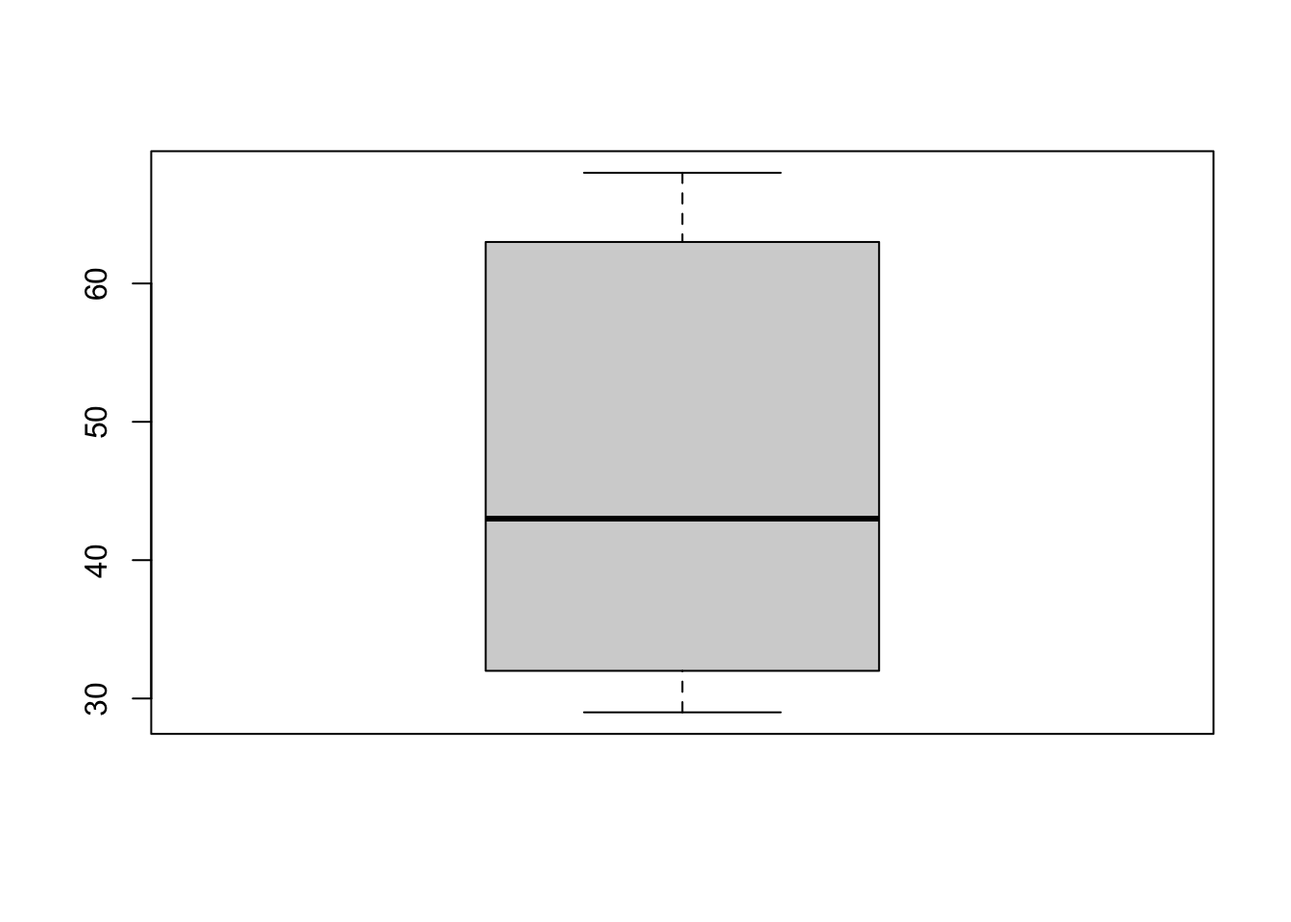
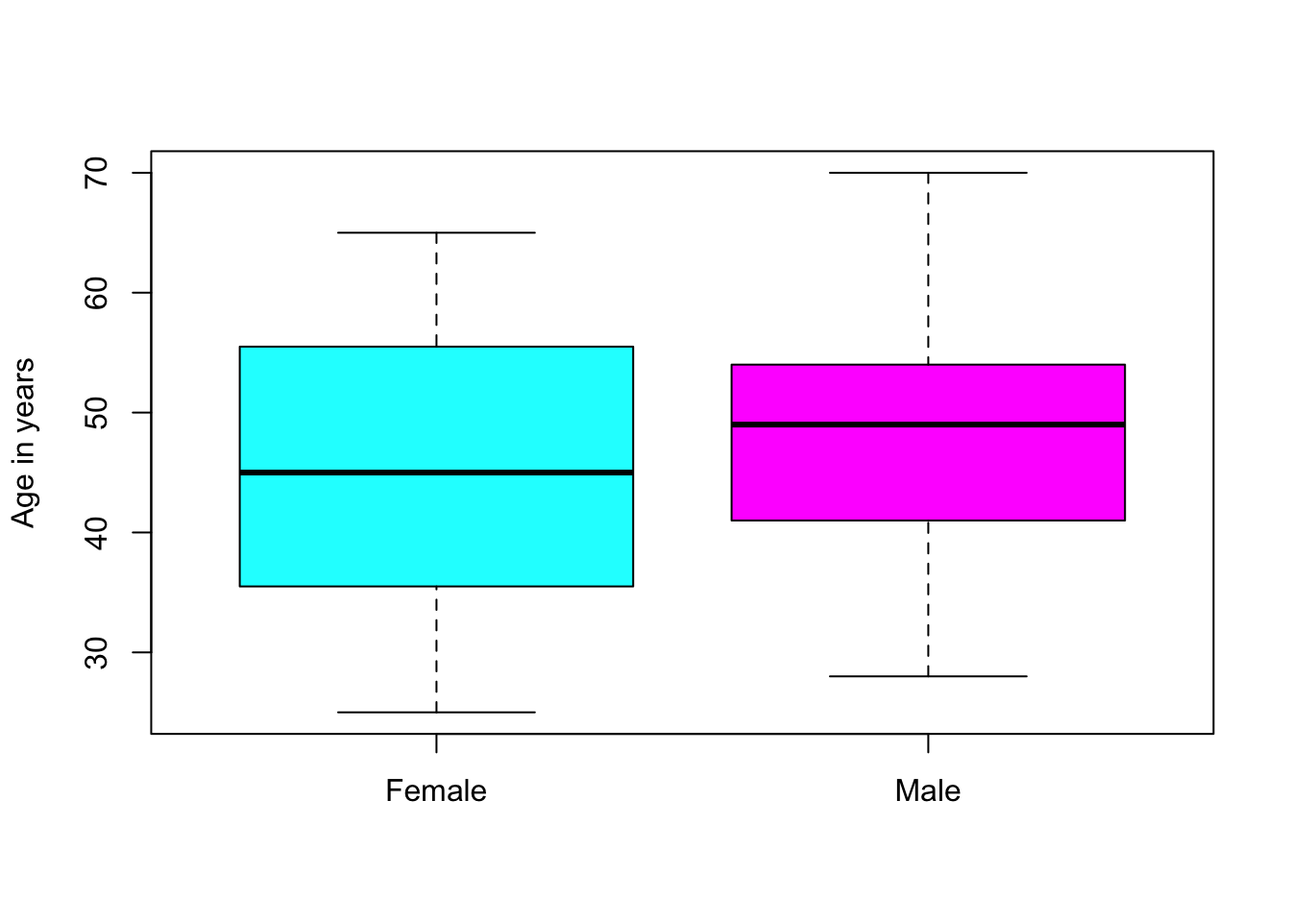
Improved examples, footnotes

diff --git a/content/post/2020-10-29-hetu.fi.html b/content/post/2020-10-29-hetu.fi.html
@@ -15,13 +15,13 @@ tags:
 <div id="yleistä" class="section level2">
 <h2>Yleistä</h2>
 <p>Hetu-paketti on tarkoitettu suomalaisten henkilötunnusten algoritmiseen käsittelyyn. Paketista on erityisesti hyötyä, mikäli halutaan poimia informaatiota suuresta määrästä henkilötunnuksia, kuten tunnuksen haltijoiden iät tai sukupuolet. Henkilötunnusten käsittelyyn tarkoitettujen työkalujen kehitystyö alkoi osana sorvi-pakettia, mutta ne eriytettiin omaksi paketikseen vuonna 2013. Syksyllä 2020 hetu-paketti saatettiin julkaisukelpoiseen kuntoon ja se on saatavissa <a href="https://CRAN.R-project.org/package=hetu">CRANista</a>.</p>
-<p>Hetu-paketin esikuvana on toiminut <a href="https://CRAN.R-project.org/package=sweidnumbr">sweidnumbr-paketti</a> ja pakettien käyttämät funktiot on mahdollisuuksien mukaan nimetty samalla tavalla.</p>
+<p>Hetu-paketin esikuvana on toiminut <a href="https://CRAN.R-project.org/package=sweidnumbr">sweidnumbr-paketti</a> ja pakettien käyttämät funktiot on mahdollisuuksien mukaan nimetty samalla tavalla.<a href="#fn1" class="footnote-ref" id="fnref1"><sup>1</sup></a></p>
 </div>
 <div id="suomalainen-henkilötunnus" class="section level2">
 <h2>Suomalainen henkilötunnus</h2>
-<p>Henkilötunnus on henkilöiden yksilöintiin tarkoitettu tunnus, joka koostuu syntymäajasta (PP/KK/VV), syntymävuosisataa kuvaavasta merkistä (-, + tai A), yksilönumerosta (NNN) sekä tarkistusmerkistä (C). Käytännössä henkilötunnuksen yksilönumeron avulla pystytään pystytään erottamaan toisistaan samana päivänä syntyneet henkilöt sekä tehdä päätelmiä henkilön sukupuolesta. Naisilla numero on parillinen ja miehillä pariton.<a href="#fn1" class="footnote-ref" id="fnref1"><sup>1</sup></a></p>
+<p>Henkilötunnus on henkilöiden yksilöintiin tarkoitettu tunnus, joka koostuu syntymäajasta (PP/KK/VV), syntymävuosisataa kuvaavasta merkistä (-, + tai A), yksilönumerosta (NNN) sekä tarkistusmerkistä (C). Käytännössä henkilötunnuksen yksilönumeron avulla pystytään pystytään erottamaan toisistaan samana päivänä syntyneet henkilöt sekä tehdä päätelmiä henkilön sukupuolesta. Naisilla numero on parillinen ja miehillä pariton.<a href="#fn2" class="footnote-ref" id="fnref2"><sup>2</sup></a></p>
 <p>Henkilötunnusta käytetään laajalti julkisella ja yksityisellä sektorilla. Henkilötunnus toimii usein sen yksilöivyyden vuoksi rekisteritietokannoissa ns. avaimena, jonka avulla rekistereiden sisältämät tietotaulut pystytään yhdistämään tiettyyn käyttäjään ja toisaalta eri rekistereistä löytyvää dataa voidaan yhdistellä toisiinsa.</p>
-<p>Henkilötunnus ei sinänsä ole salassapidettävää tietoa, mutta sen, kuten muidenkin henkilötietojen, käsittelyyn liittyy rajoituksia: henkilötunnusta saa käsitellä rekisteröidyn yksiselitteisesti antamalla suostumuksella tai mikäli rekisteröidyn yksiselitteinen yksilöiminen on tärkeää.<a href="#fn2" class="footnote-ref" id="fnref2"><sup>2</sup></a> Rajoitukset eivät todennäköisesti ole täysin aiheettomia, sillä henkilötunnusten käyttö ei ole täysin ongelmatonta. Tähän palataan blogin loppupuolella.</p>
+<p>Henkilötunnus ei sinänsä ole salassapidettävää tietoa, mutta sen, kuten muidenkin henkilötietojen, käsittelyyn liittyy rajoituksia: henkilötunnusta saa käsitellä rekisteröidyn yksiselitteisesti antamalla suostumuksella tai mikäli rekisteröidyn yksiselitteinen yksilöiminen on tärkeää.<a href="#fn3" class="footnote-ref" id="fnref3"><sup>3</sup></a> Rajoitukset eivät todennäköisesti ole täysin aiheettomia, sillä henkilötunnusten käyttö ei ole täysin ongelmatonta. Tähän palataan blogin loppupuolella.</p>
 </div>
 <div id="henkilötunnusten-algoritminen-käsittely-hetu-paketilla" class="section level2">
 <h2>Henkilötunnusten algoritminen käsittely hetu-paketilla</h2>
@@ -109,19 +109,25 @@ hetu(example_pins, extract = &quot;valid.pin&quot;)</code></pre>
 hetu(example_pins, extract = &quot;p.num&quot;)</code></pre>
 <pre><code>## [1] &quot;010&quot; &quot;111&quot;</code></pre>
 <p>Muista tiedoista poiketen ikää ei saa suoraan poimittua hetu-funktion extract-parametria käyttämällä. Ikä halutussa aikamääreessä ja haluttuna ajankohtana saadaan hetu_age-funktion avulla. Perusasetus on ikä vuosina kysymisajankohtana, mutta myös ikä kuukausina tai päivinä on mahdollinen.</p>
-<pre class="r"><code>example_pins &lt;- c(&quot;010101-0101&quot;, &quot;111111-111C&quot;)
+<p>Tässä esimerkissä käytetään myös rhetu-funktiota, jonka avulla voidaan generoida haluttu määrä keinotekoisia henkilötunnuksia esimerkiksi paketin ominaisuuksien testaamiseksi.</p>
+<pre class="r"><code>example_pins2 &lt;- rhetu(5, start = &quot;1950-01-01&quot;, end = &quot;1995-05-07&quot;)
 # Ikä vuosina
-hetu_age(example_pins)</code></pre>
+hetu_age(example_pins2)</code></pre>
 <pre><code>## The age in years has been calculated at 2020-10-29.</code></pre>
-<pre><code>## [1] 119 108</code></pre>
+<pre><code>## [1] 65 69 67 60 44</code></pre>
 <pre class="r"><code># Ikä kuukasina
-hetu_age(example_pins, timespan = &quot;months&quot;)</code></pre>
+hetu_age(example_pins2, timespan = &quot;months&quot;)</code></pre>
 <pre><code>## The age in months has been calculated at 2020-10-29.</code></pre>
-<pre><code>## [1] 1437 1307</code></pre>
-<pre class="r"><code># Minkä ikäisiä hetujen omistajat olivat 1950-luvun puolivälissä?
-hetu_age(example_pins, date = &quot;1955-01-01&quot;)</code></pre>
-<pre><code>## The age in years has been calculated at 1955-01-01.</code></pre>
-<pre><code>## [1] 54 43</code></pre>
+<pre><code>## [1] 784 832 812 728 533</code></pre>
+<pre class="r"><code># Minkä ikäisiä hetujen omistajat olivat 2011 puolivälissä?
+hetu_age(example_pins2, date = &quot;2011-01-01&quot;)</code></pre>
+<pre><code>## The age in years has been calculated at 2011-01-01.</code></pre>
+<pre><code>## [1] 55 59 57 50 34</code></pre>
+<pre class="r"><code># Visualisointi: laatikkojanakuvaaja sukupuolen mukaan ryhmiteltynä
+example_pins3 &lt;- rhetu(20, start = &quot;1950-01-01&quot;, end = &quot;1995-05-07&quot;, p.male = 0.5)
+boxplot(hetu_age(example_pins3)~hetu_sex(example_pins3), xlab = &quot;&quot;, ylab = &quot;Ikä vuosina&quot;, col=c(&quot;gold&quot;, &quot;darkgreen&quot;))</code></pre>
+<pre><code>## The age in years has been calculated at 2020-10-29.</code></pre>
+<p><img src="/post/2020-10-29-hetu.fi_files/figure-html/unnamed-chunk-4-1.png" width="672" /></p>
 <p>Joissakin tapauksissa voi olla hyödyllistä tarkastella epävalidien hetujen diagnostiikkatietoa. Tiedot saadaan hetu_diagnostic -funktion avulla, jota demonstroimme monella tavalla virheellisen henkilötunnuksen avulla:</p>
 <pre class="r"><code>hetu_diagnostic(&quot;321399-000G&quot;)</code></pre>
 <pre><code>##           hetu is.temp valid.p.num valid.checksum correct.checksum valid.date
@@ -136,23 +142,23 @@ hetu_diagnostic(&quot;321399-000G&quot;, extract = c(&quot;valid.p.num&quot;, &q
 </div>
 <div id="yritys--ja-yhteisötunnusten-y-tunnus-käsittely" class="section level2">
 <h2>Yritys- ja yhteisötunnusten (Y-tunnus) käsittely</h2>
-<p>Hetu-paketissa on myös sweidnumbr-pakettia vastaavalla tavalla mahdollisuus generoida ja validoida suomalaisia yritys- ja yhteisötunnuksia. Suomalainen Y-tunnus koostuu seitsemästä numerosta, väliviivasta ja tarkistusmerkistä ja on muotoa 1234567-8.<a href="#fn3" class="footnote-ref" id="fnref3"><sup>3</sup></a> Y-tunnus on englanniksi Business Identity Code, mistä johtuen tässä paketissa y-tunnusten käsittelyyn tarkoitettujen funktioiden etuliitteenä käytetään lyhennettä bid:</p>
+<p>Hetu-paketissa on myös sweidnumbr-pakettia vastaavalla tavalla mahdollisuus generoida ja validoida suomalaisia yritys- ja yhteisötunnuksia. Suomalainen Y-tunnus koostuu seitsemästä numerosta, väliviivasta ja tarkistusmerkistä ja on muotoa 1234567-8.<a href="#fn4" class="footnote-ref" id="fnref4"><sup>4</sup></a> Y-tunnus on englanniksi Business Identity Code, mistä johtuen tässä paketissa y-tunnusten käsittelyyn tarkoitettujen funktioiden etuliitteenä käytetään lyhennettä bid:</p>
 <ul>
 <li>bid_ctrl(bid): tarkastaa y-tunnuksen oikeellisuuden, TRUE tai FALSE</li>
 <li>rbid(n): generoi n kappaletta y-tunnuksia</li>
 </ul>
 <pre class="r"><code>example_bids &lt;- rbid(2)
 example_bids</code></pre>
-<pre><code>## [1] &quot;2053820-3&quot; &quot;2317839-7&quot;</code></pre>
+<pre><code>## [1] &quot;6212259-9&quot; &quot;9081082-3&quot;</code></pre>
 <pre class="r"><code>bid_ctrl(example_bids)</code></pre>
 <pre><code>## [1] TRUE TRUE</code></pre>
 <p>Toisin kuin henkilötunnusten tapauksessa, y-tunnuksista ei voida poimia mitään muuta lisäinformaatiota, esimerkiksi yrityksen perustamisajankohtaan tai toimialaan liittyen.</p>
 </div>
 <div id="henkilötunnusten-tulevaisuus-ja-tietoturvallisuus" class="section level2">
 <h2>Henkilötunnusten tulevaisuus ja tietoturvallisuus</h2>
-<p>Henkilötunnusten uudistamisesta on käyty viime vuosina runsaasti julkista keskustelua. Nykymuotoisen henkilötunnuksen ongelmana on pidetty esimerkiksi henkilötunnusten rajallista määrää sekä sitä, että henkilötunnuksesta ilmenee henkilötietoja kuten sukupuoli ja ikä. Toisaalta uudistusta vastaan puhuu julkisen ja yksityisen sektorin toimijoiden tietojärjestelmien päivitysten korkeat kustannukset. Kirjoitushetkellä tuoreimman ehdotuksen mukaan henkilötunnukset olisivat säilymässä tulevaisuudessakin muodoltaan nykyisiä vastaavina sillä erotuksella, että jatkossa vapaana olevat parilliset ja parittomat yksilönumerot jaettaisiin tasaisesti molemmille sukupuolille.<a href="#fn4" class="footnote-ref" id="fnref4"><sup>4</sup></a> <a href="#fn5" class="footnote-ref" id="fnref5"><sup>5</sup></a></p>
-<p>Tietosuojaperiaatteen mukaan henkilötietoja tulisi kerätä ja käsitellä ainoastaan siinä laajuudessa, mikä on tarkoituksenmukaista tai välttämätöntä palvelun käyttötarkoituksen kannalta.<a href="#fn6" class="footnote-ref" id="fnref6"><sup>6</sup></a> Tätä taustaa vasten voidaan pitää ongelmallisena, että henkilötunnusten laajamittainen käyttö aiheuttaa vähintäänkin epäsuorasti tilanteen, jossa palvelun tarjoajalla on usein tarpeettomasti hallussaan tietoa käyttäjien iästä ja sukupuolesta.</p>
-<p>Käytännössä suuremmat ongelmat koituvat ihmisille kuitenkin tavasta, jolla henkilötunnuksia käytetään suomalaisessa yhteiskunnassa. Vaikka henkilötunnus ei teoriassa ole salassapidettävää tietoa, rikollisella tai muutoin vilpillisellä tavalla toimiva henkilö voi aiheuttaa monenlaista haittaa, mikäli hän saa haltuunsa toisen ihmisen henkilötunnuksen. Henkilötunnusta saatetaan kysyä puhelimitse asioivalta henkilöltä varmistukseksi henkilöllisyydestä, ennen kuin hänelle kerrotaan esimerkiksi sensitiivisiä potilastietoja. Joskus henkilötunnus saatetaan asettaa verkkopalvelussa uuden käyttäjän ensimmäiseksi salasanaksi, joka jokaisen pitäisi muistaa vaihtaa ensimmäisen kirjautumiskerran jälkeen. Henkilötunnuksen ja ihmisen nimen tietäminen voivat joissakin tapauksissa riittää siihen, että rikollisesti toimiva voi tilata osamaksulla tuotteita, joita hänellä ei ole aikomustakaan maksaa.<a href="#fn7" class="footnote-ref" id="fnref7"><sup>7</sup></a></p>
+<p>Henkilötunnusten uudistamisesta on käyty viime vuosina runsaasti julkista keskustelua. Nykymuotoisen henkilötunnuksen ongelmana on pidetty esimerkiksi henkilötunnusten rajallista määrää sekä sitä, että henkilötunnuksesta ilmenee henkilötietoja kuten sukupuoli ja ikä. Toisaalta uudistusta vastaan puhuu julkisen ja yksityisen sektorin toimijoiden tietojärjestelmien päivitysten korkeat kustannukset. Kirjoitushetkellä tuoreimman ehdotuksen mukaan henkilötunnukset olisivat säilymässä tulevaisuudessakin muodoltaan nykyisiä vastaavina sillä erotuksella, että jatkossa vapaana olevat parilliset ja parittomat yksilönumerot jaettaisiin tasaisesti molemmille sukupuolille.<a href="#fn5" class="footnote-ref" id="fnref5"><sup>5</sup></a> <a href="#fn6" class="footnote-ref" id="fnref6"><sup>6</sup></a></p>
+<p>Tietosuojaperiaatteen mukaan henkilötietoja tulisi kerätä ja käsitellä ainoastaan siinä laajuudessa, mikä on tarkoituksenmukaista tai välttämätöntä palvelun käyttötarkoituksen kannalta.<a href="#fn7" class="footnote-ref" id="fnref7"><sup>7</sup></a> Tätä taustaa vasten voidaan pitää ongelmallisena, että henkilötunnusten laajamittainen käyttö aiheuttaa vähintäänkin epäsuorasti tilanteen, jossa palvelun tarjoajalla on usein tarpeettomasti hallussaan tietoa käyttäjien iästä ja sukupuolesta.</p>
+<p>Käytännössä suuremmat ongelmat koituvat ihmisille kuitenkin tavasta, jolla henkilötunnuksia käytetään suomalaisessa yhteiskunnassa. Vaikka henkilötunnus ei teoriassa ole salassapidettävää tietoa, rikollisella tai muutoin vilpillisellä tavalla toimiva henkilö voi aiheuttaa monenlaista haittaa, mikäli hän saa haltuunsa toisen ihmisen henkilötunnuksen. Henkilötunnusta saatetaan kysyä puhelimitse asioivalta henkilöltä varmistukseksi henkilöllisyydestä, ennen kuin hänelle kerrotaan esimerkiksi sensitiivisiä potilastietoja. Joskus henkilötunnus saatetaan asettaa verkkopalvelussa uuden käyttäjän ensimmäiseksi salasanaksi, joka jokaisen pitäisi muistaa vaihtaa ensimmäisen kirjautumiskerran jälkeen. Henkilötunnuksen ja ihmisen nimen tietäminen voivat joissakin tapauksissa riittää siihen, että rikollisesti toimiva voi tilata osamaksulla tuotteita, joita hänellä ei ole aikomustakaan maksaa.</p>
 </div>
 <div id="lähdeviitteet" class="section level2">
 <h2>Lähdeviitteet</h2>
@@ -160,12 +166,12 @@ example_bids</code></pre>
 <div class="footnotes">
 <hr />
 <ol>
-<li id="fn1"><p>Digi- ja väestötietovirasto. Henkilötunnus. URL: <a href="https://dvv.fi/henkilotunnus" class="uri">https://dvv.fi/henkilotunnus</a><a href="#fnref1" class="footnote-back">↩</a></p></li>
-<li id="fn2"><p>Ks. esim. Finlex. HE 59/2013. URL: <a href="https://www.finlex.fi/fi/esitykset/he/2013/20130059" class="uri">https://www.finlex.fi/fi/esitykset/he/2013/20130059</a><a href="#fnref2" class="footnote-back">↩</a></p></li>
-<li id="fn3"><p>Yritys- ja yhteisötietojärjestelmä. Y-tunnus. URL: <a href="https://www.ytj.fi/index/y-tunnus.html" class="uri">https://www.ytj.fi/index/y-tunnus.html</a><a href="#fnref3" class="footnote-back">↩</a></p></li>
-<li id="fn4"><p>Tuomas Salsteen nettisivuilta löytyy hyvä selvitys henkilötunnuksen historiasta, ongelmakohdista että uudistustyöryhmän kehitysehdotuksista. URL: <a href="https://www.tuomas.salste.net/doc/hetu/tunnus.html" class="uri">https://www.tuomas.salste.net/doc/hetu/tunnus.html</a>.<a href="#fnref4" class="footnote-back">↩</a></p></li>
-<li id="fn5"><p>Yle Uutiset. 2020. Uusi henkilötunnus kaikille Suomen kansalaisille ja Suomessa asuville, ehdottaa työryhmä – jatkossa tunnuksesta ei selviäisi ikä, syntymäaika tai sukupuoli. Julkaistu 8.4.2020, viitattu 23.10.2020. URL: <a href="https://yle.fi/uutiset/3-11299218" class="uri">https://yle.fi/uutiset/3-11299218</a><a href="#fnref5" class="footnote-back">↩</a></p></li>
-<li id="fn6"><p>Tietosuojavaltuutetun toimisto. Käyttötarkoitussidonnaisuus. Viitattu 26.10.2020. <a href="https://tietosuoja.fi/kayttotarkoitussidonnaisuus" class="uri">https://tietosuoja.fi/kayttotarkoitussidonnaisuus</a><a href="#fnref6" class="footnote-back">↩</a></p></li>
-<li id="fn7"><p>Tuomas Salsteen nettisivuilta löytyy hyvä selvitys henkilötunnuksen historiasta, ongelmakohdista että uudistustyöryhmän kehitysehdotuksista. URL: <a href="https://www.tuomas.salste.net/doc/hetu/tunnus.html" class="uri">https://www.tuomas.salste.net/doc/hetu/tunnus.html</a>.<a href="#fnref7" class="footnote-back">↩</a></p></li>
+<li id="fn1"><p>Lisätietoja sweidnumbr-paketista esim. tästä blogikirjoituksesta: Magnusson, Måns &amp; Bülow, Erik. 2015. R made personal (at least for swedes)!. URL: <a href="http://ropengov.org/2015/08/r-made-personal-at-least-for-swedes/" class="uri">http://ropengov.org/2015/08/r-made-personal-at-least-for-swedes/</a><a href="#fnref1" class="footnote-back">↩</a></p></li>
+<li id="fn2"><p>Digi- ja väestötietovirasto. Henkilötunnus. URL: <a href="https://dvv.fi/henkilotunnus" class="uri">https://dvv.fi/henkilotunnus</a><a href="#fnref2" class="footnote-back">↩</a></p></li>
+<li id="fn3"><p>Ks. esim. Finlex. HE 59/2013. URL: <a href="https://www.finlex.fi/fi/esitykset/he/2013/20130059" class="uri">https://www.finlex.fi/fi/esitykset/he/2013/20130059</a><a href="#fnref3" class="footnote-back">↩</a></p></li>
+<li id="fn4"><p>Yritys- ja yhteisötietojärjestelmä. Y-tunnus. URL: <a href="https://www.ytj.fi/index/y-tunnus.html" class="uri">https://www.ytj.fi/index/y-tunnus.html</a><a href="#fnref4" class="footnote-back">↩</a></p></li>
+<li id="fn5"><p>Tuomas Salsteen nettisivuilta löytyy hyvä selvitys henkilötunnuksen historiasta, ongelmakohdista että uudistustyöryhmän kehitysehdotuksista. URL: <a href="https://www.tuomas.salste.net/doc/hetu/tunnus.html" class="uri">https://www.tuomas.salste.net/doc/hetu/tunnus.html</a>.<a href="#fnref5" class="footnote-back">↩</a></p></li>
+<li id="fn6"><p>Yle Uutiset. 2020. Uusi henkilötunnus kaikille Suomen kansalaisille ja Suomessa asuville, ehdottaa työryhmä – jatkossa tunnuksesta ei selviäisi ikä, syntymäaika tai sukupuoli. Julkaistu 8.4.2020, viitattu 23.10.2020. URL: <a href="https://yle.fi/uutiset/3-11299218" class="uri">https://yle.fi/uutiset/3-11299218</a><a href="#fnref6" class="footnote-back">↩</a></p></li>
+<li id="fn7"><p>Tietosuojavaltuutetun toimisto. Käyttötarkoitussidonnaisuus. Viitattu 26.10.2020. <a href="https://tietosuoja.fi/kayttotarkoitussidonnaisuus" class="uri">https://tietosuoja.fi/kayttotarkoitussidonnaisuus</a><a href="#fnref7" class="footnote-back">↩</a></p></li>
 </ol>
 </div>

diff --git a/content/post/2020-10-29-hetu.en.html b/content/post/2020-10-29-hetu.en.html
@@ -16,11 +16,11 @@ tags:
 <h2>General information</h2>
 <p>Hetu-package for R is meant for algorithmic handling of Finnish personal identity numbers (PINs). The package is especially useful for those who wish to extract information from or validate a large number of PINs at a time.</p>
 <p>The toolset for analyzing Finnish PINs was initially developed as a part of sorvi-package, but was later made into a separate package. The development of the hetu-package reached an important milestone in Fall 2020 when it was published in <a href="https://CRAN.R-project.org/package=hetu">CRAN</a>.</p>
-<p>The development of hetu-package is closely related to <a href="https://CRAN.R-project.org/package=sweidnumbr">sweidnumbr</a>, a similar package meant for analyzing Swedish personal identity numbers (PINs) and organizational identity numbers (OINs). Hetu-package shares similar function names with sweidnumbr, when applicable.</p>
+<p>The development of hetu-package is closely related to <a href="https://CRAN.R-project.org/package=sweidnumbr">sweidnumbr</a>, a similar package meant for analyzing Swedish personal identity numbers (PINs) and organizational identity numbers (OINs). Hetu-package shares similar function names with sweidnumbr, when applicable.<a href="#fn1" class="footnote-ref" id="fnref1"><sup>1</sup></a></p>
 </div>
 <div id="finnish-personal-identification-code-hetu" class="section level2">
 <h2>Finnish personal identification code, hetu</h2>
-<p>Personal identification code (or: national identification number, national identity number, personal identification number or PIN) is meant to be a unique identifier for individuals. Finnish personal identification number (henkilötunnus, hetu for short) consists of date (DDMMYY), century marker (-, + or A), personal number (NNN) and checkmark (C). Males have an odd personal number and females an even personal number.<a href="#fn1" class="footnote-ref" id="fnref1"><sup>1</sup></a></p>
+<p>Personal identification code (or: national identification number, national identity number, personal identification number or PIN) is meant to be a unique identifier for individuals. Finnish personal identification number (henkilötunnus, hetu for short) consists of date (DDMMYY), century marker (-, + or A), personal number (NNN) and checkmark (C). Males have an odd personal number and females an even personal number.<a href="#fn2" class="footnote-ref" id="fnref2"><sup>2</sup></a></p>
 <p>Personal identity codes are widely used in public and private sectors alike. They are not confidential or secret information, but like every personal information, handling hetu-codes requires consent from the individual or a valid reason.</p>
 </div>
 <div id="algorithmic-handling-of-hetu-pins" class="section level2">
@@ -103,22 +103,23 @@ hetu(example_pins, extract = &quot;valid.pin&quot;)</code></pre>
 <pre class="r"><code># Information that can be extracted only with extract-parameter
 hetu(example_pins, extract = &quot;p.num&quot;)</code></pre>
 <pre><code>## [1] &quot;010&quot; &quot;111&quot;</code></pre>
-<p>Extracting age works only with a specialized function. In this example we will also introduce the ability to generate random PINs with rhetu-function. All PINs are meant only for temporary use:</p>
+<p>Extracting age works only with a specialized function. In this example we will also introduce the ability to generate random PINs with rhetu-function:</p>
 <pre class="r"><code>example_pins2 &lt;- rhetu(5, start = &quot;1950-01-01&quot;, end = &quot;1995-05-07&quot;)
 # Age in years
 hetu_age(example_pins2)</code></pre>
 <pre><code>## The age in years has been calculated at 2020-10-29.</code></pre>
-<pre><code>## [1] 29 68 32 43 63</code></pre>
+<pre><code>## [1] 33 56 52 41 70</code></pre>
 <pre class="r"><code># Age in months
 hetu_age(example_pins2, timespan = &quot;months&quot;)</code></pre>
 <pre><code>## The age in months has been calculated at 2020-10-29.</code></pre>
-<pre><code>## [1] 357 823 387 525 766</code></pre>
+<pre><code>## [1] 402 672 627 492 847</code></pre>
 <pre class="r"><code># Age in 2011
 hetu_age(example_pins2, date = &quot;2011-01-01&quot;)</code></pre>
 <pre><code>## The age in years has been calculated at 2011-01-01.</code></pre>
-<pre><code>## [1] 19 58 22 33 54</code></pre>
-<pre class="r"><code># Visualization: boxplot
-boxplot(hetu_age(example_pins2))</code></pre>
+<pre><code>## [1] 23 46 42 31 60</code></pre>
+<pre class="r"><code># Visualization: boxplot grouped by sex
+example_pins3 &lt;- rhetu(20, start = &quot;1950-01-01&quot;, end = &quot;1995-05-07&quot;, p.male = 0.5)
+boxplot(hetu_age(example_pins3)~hetu_sex(example_pins3), xlab = &quot;&quot;, ylab = &quot;Age in years&quot;, col=c(&quot;cyan&quot;, &quot;magenta&quot;))</code></pre>
 <pre><code>## The age in years has been calculated at 2020-10-29.</code></pre>
 <p><img src="/post/2020-10-29-hetu.en_files/figure-html/unnamed-chunk-4-1.png" width="672" /></p>
 <p>In some cases diagnostics information for invalid PINs might be useful:</p>
@@ -135,14 +136,14 @@ hetu_diagnostic(&quot;321399-000G&quot;, extract = c(&quot;valid.p.num&quot;, &q
 </div>
 <div id="business-identity-numbers-y-tunnus-bid" class="section level2">
 <h2>Business Identity Numbers (Y-tunnus, BID)</h2>
-<p>As in sweidnumbr, hetu-package has two functions that can be used with Finnish Business Identity Numbers (y-tunnus). Finnish business identity numbers have the form 1234567-8, where the last number is a checknumber.<a href="#fn2" class="footnote-ref" id="fnref2"><sup>2</sup></a> The following functions are available:</p>
+<p>As in sweidnumbr, hetu-package has two functions that can be used with Finnish Business Identity Numbers (y-tunnus). Finnish business identity numbers have the form 1234567-8, where the last number is a checknumber.<a href="#fn3" class="footnote-ref" id="fnref3"><sup>3</sup></a> The following functions are available:</p>
 <ul>
 <li>bid_ctrl(bid): checks the valiity of the BID, TRUE or FALSE</li>
 <li>rbid(n): generates n BIDs</li>
 </ul>
 <pre class="r"><code>example_bids &lt;- rbid(2)
 example_bids</code></pre>
-<pre><code>## [1] &quot;5941223-7&quot; &quot;6207030-3&quot;</code></pre>
+<pre><code>## [1] &quot;6151590-5&quot; &quot;1312093-3&quot;</code></pre>
 <pre class="r"><code>bid_ctrl(example_bids)</code></pre>
 <pre><code>## [1] TRUE TRUE</code></pre>
 <p>No additional information can be extracted from BIDs.</p>
@@ -153,7 +154,8 @@ example_bids</code></pre>
 <div class="footnotes">
 <hr />
 <ol>
-<li id="fn1"><p>Digi- ja väestötietovirasto. Henkilötunnus. URL: <a href="https://dvv.fi/henkilotunnus" class="uri">https://dvv.fi/henkilotunnus</a><a href="#fnref1" class="footnote-back">↩</a></p></li>
-<li id="fn2"><p>Yritys- ja yhteisötietojärjestelmä. Y-tunnus. URL: <a href="https://www.ytj.fi/index/y-tunnus.html" class="uri">https://www.ytj.fi/index/y-tunnus.html</a><a href="#fnref2" class="footnote-back">↩</a></p></li>
+<li id="fn1"><p>More information about sweidnumbr can be read e.g. from this blogpost: Magnusson, Mans &amp; Bulow, Erik. 2015. R made personal (at least for swedes)!. URL: <a href="http://ropengov.org/2015/08/r-made-personal-at-least-for-swedes/" class="uri">http://ropengov.org/2015/08/r-made-personal-at-least-for-swedes/</a><a href="#fnref1" class="footnote-back">↩</a></p></li>
+<li id="fn2"><p>Digital and Population Data Services Agency (Digi- ja väestötietovirasto). The personal identity code. URL: <a href="https://dvv.fi/en/personal-identity-code" class="uri">https://dvv.fi/en/personal-identity-code</a><a href="#fnref2" class="footnote-back">↩</a></p></li>
+<li id="fn3"><p>Finnish Patent and Registration Office. The Business Information System (BIS). URL: <a href="https://www.prh.fi/en/kaupparekisteri/rekisterointipalvelut/ytj.html" class="uri">https://www.prh.fi/en/kaupparekisteri/rekisterointipalvelut/ytj.html</a><a href="#fnref3" class="footnote-back">↩</a></p></li>
 </ol>
 </div>
